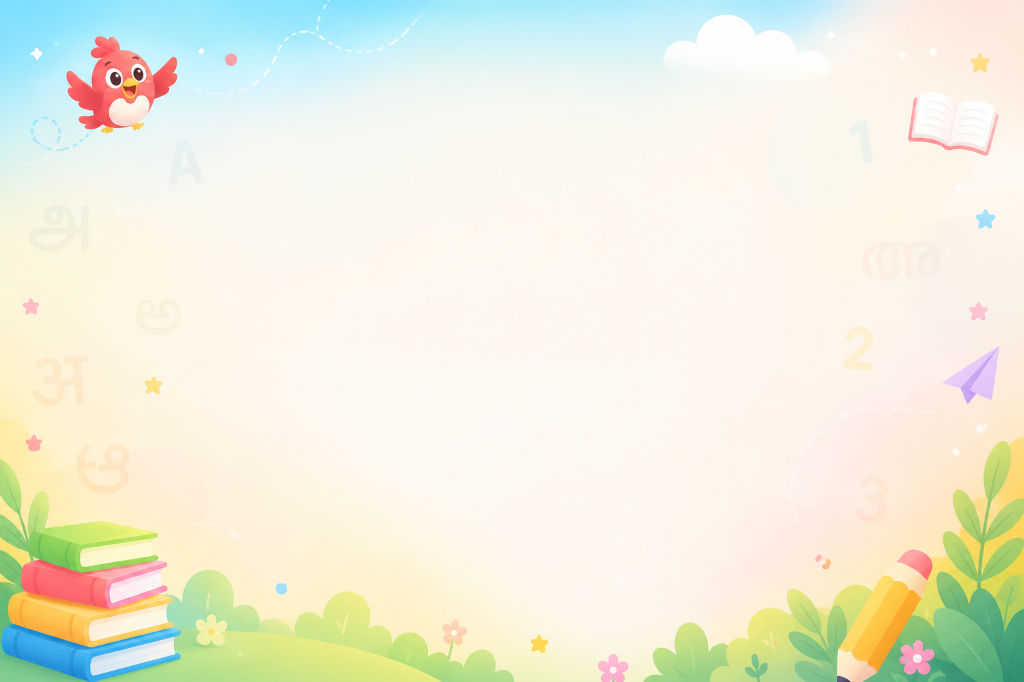
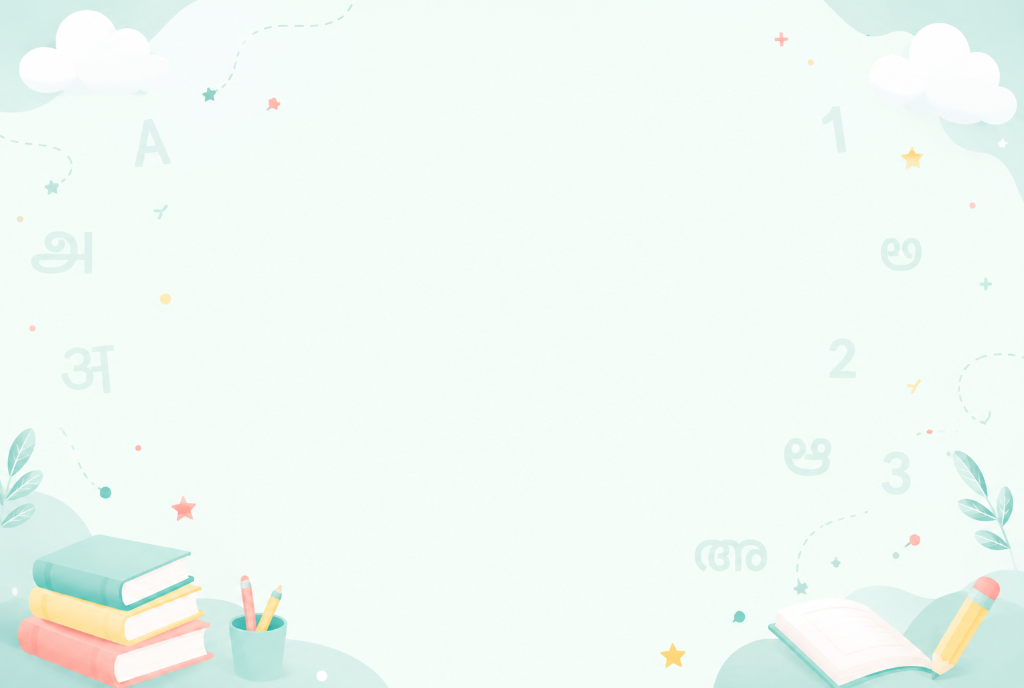
Update whole app background to new learning themed illustration

diff --git a/frontend/src/components/SkyBackdrop.jsx b/frontend/src/components/SkyBackdrop.jsx
@@ -1,10 +1,10 @@
-/** Shows the illustrated background across the entire application */
+/** Shows the app-wide illustrated backdrop across all pages. */
 export default function SkyBackdrop() {
   return (
     <div
       className="fixed inset-0 -z-10 pointer-events-none"
       style={{
-        backgroundColor: '#f5fffa',
+        backgroundColor: '#eaf8f5',
         backgroundImage: "url('/assets/app_background.png')",
         backgroundPosition: 'center',
         backgroundRepeat: 'no-repeat',

diff --git a/frontend/src/styles/index.css b/frontend/src/styles/index.css
@@ -33,11 +33,7 @@ body {
   font-family: var(--font-body);
   color: #000000;
   background-color: #f5fffa;
-  background-image: url('/assets/app_background.png');
-  background-position: center;
-  background-repeat: no-repeat;
-  background-size: cover;
-  background-attachment: fixed;
+  background: #f5fffa;
   -webkit-font-smoothing: antialiased;
 }
 
